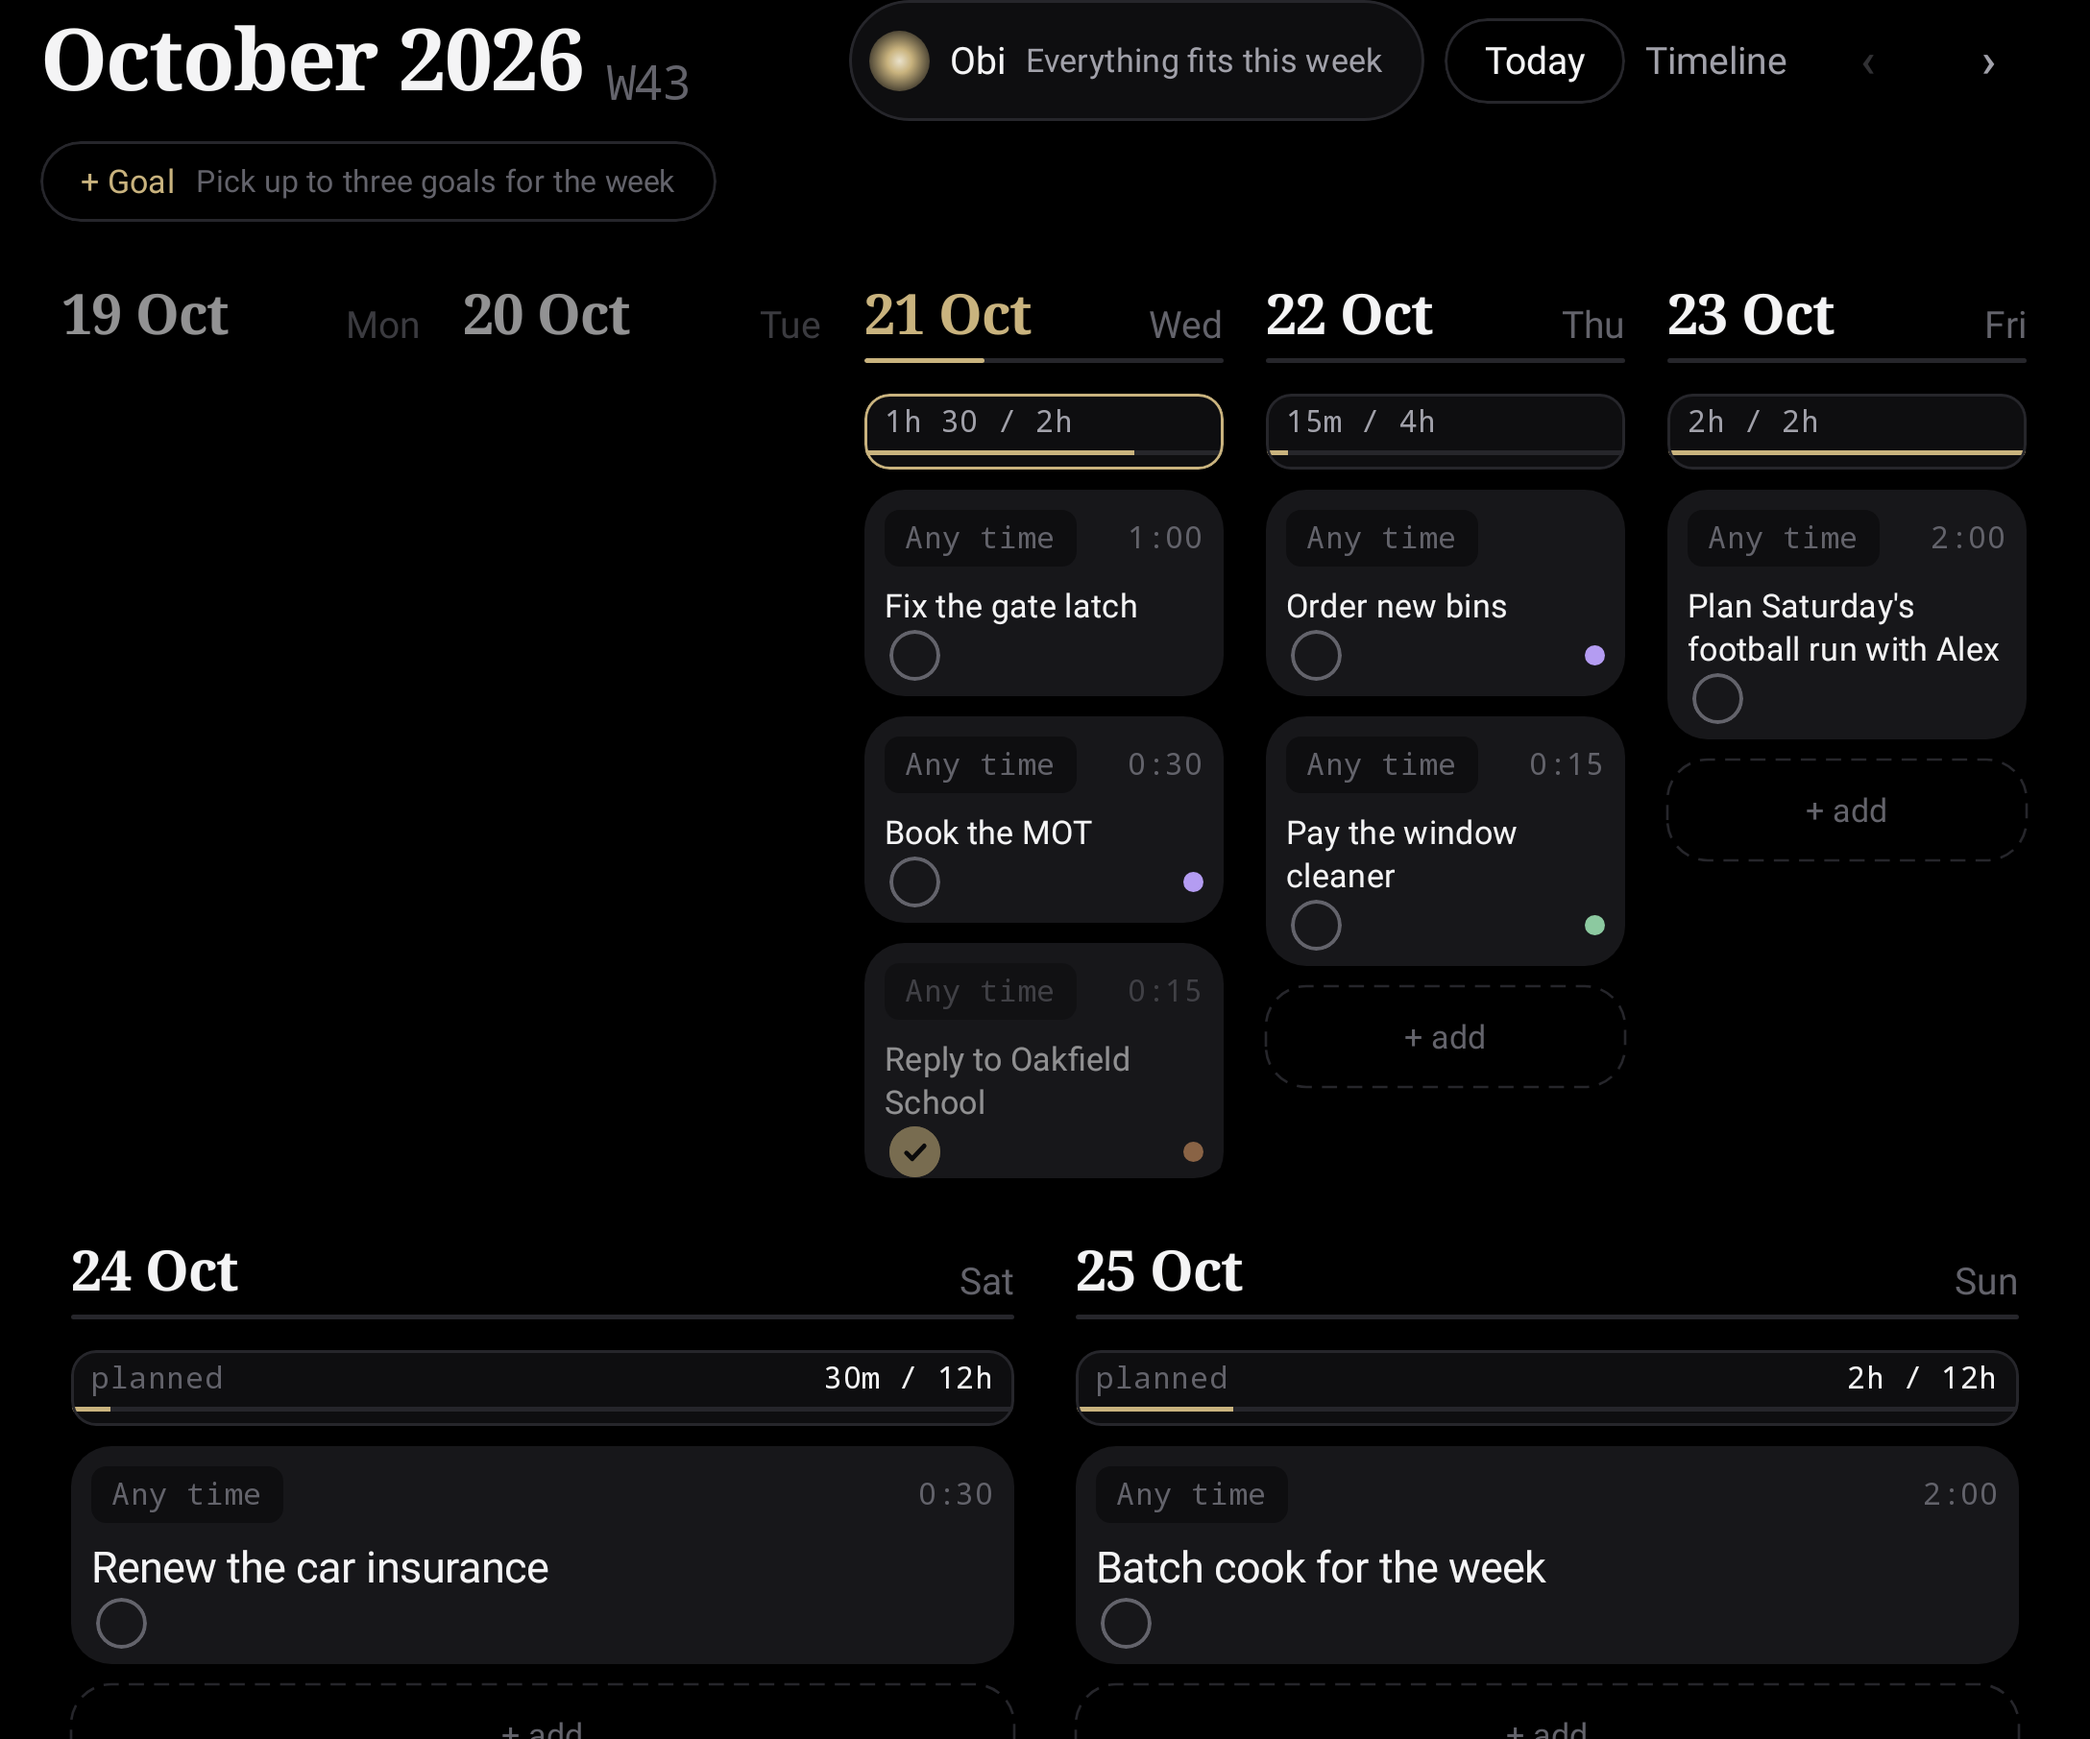
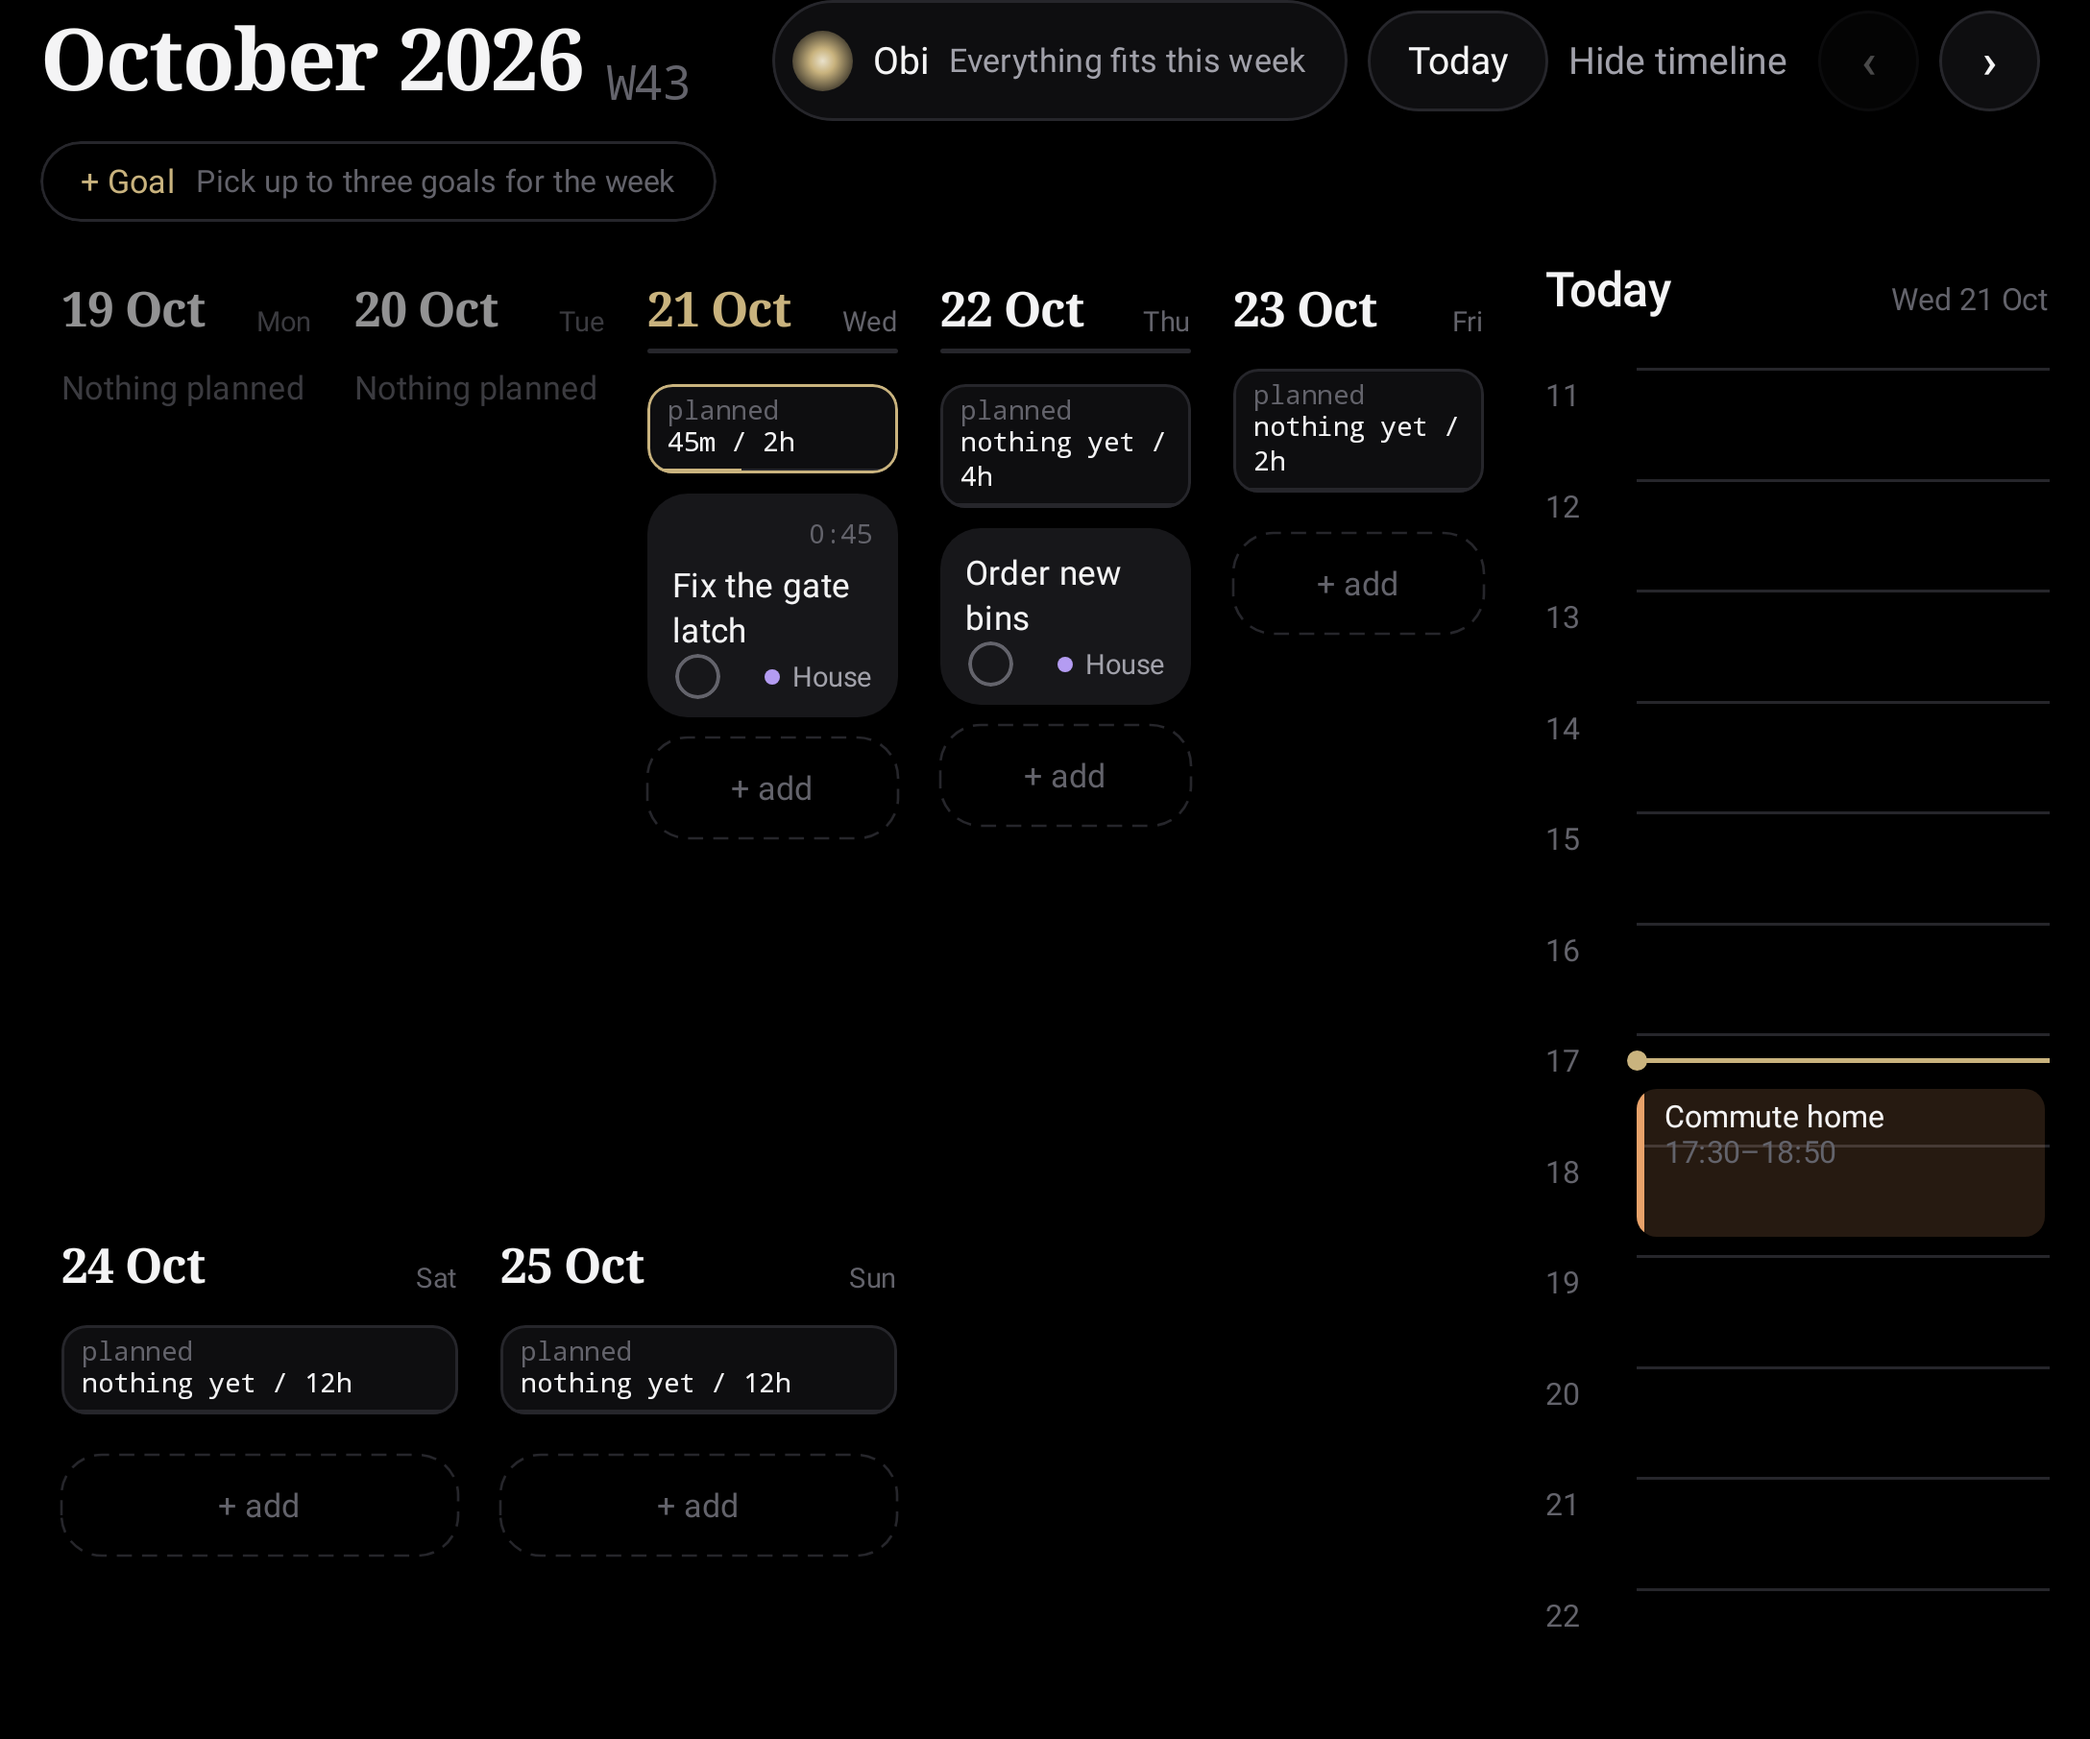
V1: build plan — Week board density pass slice 1 CI green (run 1211); the new shot beside the mockup and what's still off [skip ci]
Claude-Session: https://claude.ai/code/session_01TjnTYyVe4mcbdFWp9XExKf

diff --git a/docs/build-plan.md b/docs/build-plan.md
@@ -69,7 +69,7 @@ Runs keep to this order after any new "Take first" fix from Meka. It mirrors the
 ## Fix first (Meka's feedback, take before anything below)
 
 - [~] **Take first (top; Claude's check of docs/screens/week-board 2026-10-24 18:10, design-1280.png vs app-fold-unfolded.png): Option B is closer but still not the mockup on the open Fold.** (1) **Scale**: the unfolded Fold is ~840 dp wide, the mockup 1280 px, yet the app draws everything bigger than the mockup (dates ~2×, cards ~1.6×), so only the five day columns fit, each card is huge, and the timeline and the lists are off screen. On the unfolded Fold and the Mac, size the board to the mockup's proportions for the available width: five day columns plus the 260-wide timeline visible together at 840 dp (columns ~110–130 dp, date 18–20 sp serif, card title 13–14 sp, chips 10–11 sp mono, card padding 10 dp), Someday / Side hustle / House / No day yet reachable just below. (2) **Timeline shown by default** when unfolded and on the Mac (the mockup has it always there; "Hide timeline" stays as a choice). (3) **"Any time" chips**: the mockup shows a time on every card; with most of Meka's tasks untimed, "Any time" in a grey chip on every card dominates: when a task has no time, show no chip (duration alone on the right), the gold chip only for a set time, blue for events. (4) **Card rows**: tick and the area's dot + **name** on the same row under the title, tight, as in the mockup (cards currently show a dot without the name on the unfolded board; slice 4 added names to narrow cards: check every width). (5) Weekend underneath in the mockup's spirit but smaller (they're full-width huge cards now). (6) Re-shoot `app-fold-unfolded.png` at real Fold size and put it beside `design-1280.png` scaled to the same width; the check isn't passed until a person would say they look like the same design. Folded (cover) is close: keep it, but apply (3) there too.
-  - *What remains:* slice 1 (2026-10-24: **the density pass**: on the unfolded Fold and the Mac the board takes the mockup's proportions (date 19 serif, weekday 11, card title 13.5, chips and figures 10.5 mono, area name 11, 10 dp inside a card, 8 between, an 18 tick and a 6 dot); today's timeline is open by default whenever the weekday columns keep 100 dp beside it, so on the Fold's 829 dp the five days (about 116 dp each) and the 200 dp timeline show together; no "Any time" chip anywhere (cover too): the gold chip only for a set time, the length alone otherwise, no top line with neither; Saturday and Sunday at most 1.5 weekday columns wide; core BoardDenseRules, no server change, no migration, Mac checked nightly; details in the archive) landed, CI pending. Remaining: (6) copy CI's `inner-dark-dense` shot (screens branch) into docs/screens/week-board as app-fold-unfolded.png and judge it beside design-1280.png; anything still off there is the next slice.
+  - *What remains:* slice 1 (2026-10-24: **the density pass**: on the unfolded Fold and the Mac the board takes the mockup's proportions (date 19 serif, weekday 11, card title 13.5, chips and figures 10.5 mono, area name 11, 10 dp inside a card, 8 between, an 18 tick and a 6 dot); today's timeline is open by default whenever the weekday columns keep 100 dp beside it, so on the Fold's 829 dp the five days (about 116 dp each) and the 200 dp timeline show together; no "Any time" chip anywhere (cover too): the gold chip only for a set time, the length alone otherwise, no top line with neither; Saturday and Sunday at most 1.5 weekday columns wide; core BoardDenseRules, no server change, no migration, Mac checked nightly; details in the archive; 555974d + f9ecdfa (the rhythm and type checks), CI run 1211 (40117195819) green) landed; the new shot is docs/screens/week-board/app-fold-unfolded.png. Remaining (from the shot beside design-1280.png): the header at the mockup's size (month ~28, pill and buttons ~36) with the goals row folded into it, "+ add" a slim dashed row, the narrow pills on one or two lines, the weekend's empty pills and "+ add" smaller.
   - *Check on the Fold:* unfold, Calendar → Board: Mon–Fri and today's timeline fit side by side, cards small with the area's name beside the dot, no grey "Any time" chips, a timed task's gold chip; Hide timeline still shuts it. The Mac: the same sizes; the weekend's two columns no wider than one and a half weekdays.
 - [~] **Take first (TOP, ahead of everything, Meka 2026-10-24 14:34, build 0.1.2125 on the Fold, ringer muted): tapping the orb is broken.** The orb flies to the middle (screenshot: the constellation over a dimmed Obi's voice page with "Swipe down to close"), then after about 2 seconds the stage closes back to the normal screen; nothing he says is heard; no face. Reproduce on the emulator/Robolectric with the same build and settings (Face On with files, Live Off, ringer muted, no headphones) and find the cause: suspects in order: the hello clip failing or being skipped (muted ringer? the hello-ahead cache after the Ada→Obi rename and the voice change to Brian: cached Amy/Ada openers no longer valid, or an opener with "{n}" unfilled) so the stage thinks the turn ended and closes; `HelloEntrance.NO_START_MS` / the endpoint closing when the recogniser fails to start (mic permission, recogniser busy, the 'mic open during the hello' change only with headphones); the face stage path (`ObiFaceStore.ready` true but the film/patches failing to decode) throwing and the stage falling back to close; the Obi wake/close matcher treating a sound as "thanks Obi". Fix it so: the stage stays until he's spoken and been answered or swipes it away; if the mic can't start, it says so on the stage ("I can't hear you: microphone is off for Navilife" with a button to settings) instead of closing; if speech can't play, the words show and it still listens. Add an end-to-end test of tap → hello → listen → answer → close on the Fold and the Mac, and log (device-only, no words) why a stage closed in Health → Obi's voice ("last conversation closed: no speech heard after 8 s" etc.). Ship as soon as it's fixed (its own update), then the face diagnostics below.
   - *What remains:* slice 1 (2026-10-24: **the stage stays and says why**: the stage no longer closes when the conversation ends before he has spoken; it says "I didn't hear anything. Tap to talk…" / "I couldn't start listening…" / "I can't hear you: the microphone is off for Navilife." with **Open settings**, a tap listens again, and only a minute of nothing shrinks it back; it closes once he has spoken (and been answered) or swipes it away. **Cause found in code:** the conversation lives in Ask's field at the top of Ask's list, and with Ask scrolled down (Health → Obi's voice is near the foot) the field wasn't composed, so the orb's tap found nothing listening and the stage closed: Ask now brings the field back before a hello or a listen and pins it while hidden. A hello that can't be made now listens instead of doing nothing (both apps). Health → Obi's voice adds "Last conversation closed 14:34: no speech heard for a minute" (and the other reasons; the reason and time only) on both apps; core StageRules, no server change, no migration, Mac checked nightly; details in the archive; fce28af, CI run 1200 (40102081841) green first try) landed. Remaining: his check on the Fold (if the stage now says why rather than closing, the line says which cause it was); the face diagnostics come with the item below.

diff --git a/docs/screens/week-board/README.md b/docs/screens/week-board/README.md
@@ -30,3 +30,12 @@ about 829 dp wide, so it sits between the two design widths. The Mac's shots com
 Match slice 4 adds `inner-dark-match-gaps` (screens branch).
 
 Calm with few tasks: no empty bordered boxes anywhere.
+
+## The density pass (2026-10-24, CI run 1211)
+
+`app-fold-unfolded.png` is now `inner-dark-dense` (screens branch) at the Fold's real 829 dp: Mon–Fri and today's
+timeline fit side by side (each weekday ~116 dp, the timeline 200 dp), dates 19 sp serif, cards 13.5 sp with "● House"
+beside the tick, no "Any time" chips (the length alone), the weekend no wider than 1.5 weekdays. Still off against
+`design-1280.png`, for the next slice: the header is the old size (the 34 sp month, 48 dp Obi pill and buttons) and
+the goals row takes a line of its own; "+ add" is a 40 dp box where the mockup's is a slim dashed row; the narrow
+pills stack "nothing yet / 4h" over three lines; the weekend's empty pills and "+ add" are still big.
